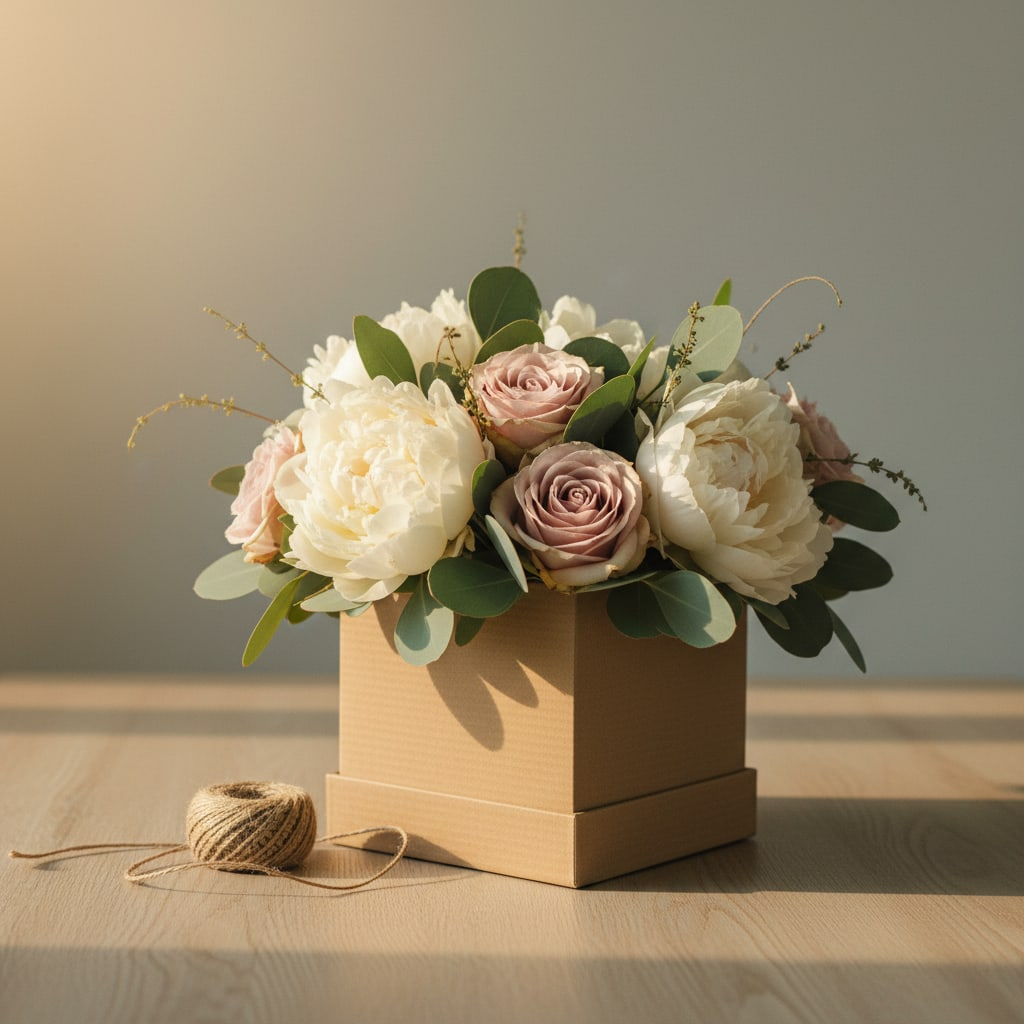
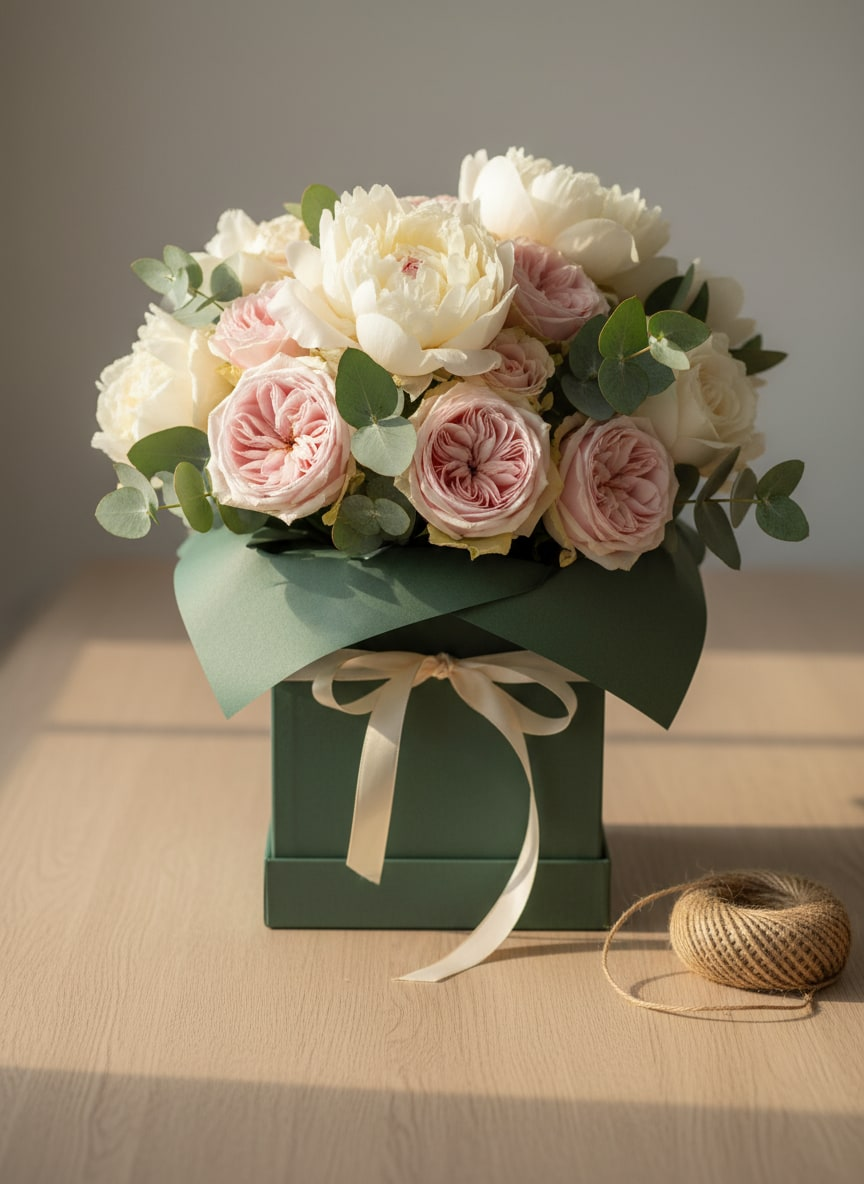
fix(hero): finalize sage-green variant in 3:4 + remove horizontal parallax bleed
- Regenerate hero-1.jpg with explicit 3:4 aspect ratio (864×1184) so the
  bouquet has breathing room on left/right and isn't cropped by object-cover
- Switch back to single imageUrl (carousel was added cost: AnimatePresence
  re-mounts + 6s interval contributing to scroll jank)
- Parallax bleed: change -inset-[8%] to inset-x-0 -inset-y-[8%] so the image
  is full-width within its column and only overflows vertically for parallax

diff --git a/app/(public)/page.tsx b/app/(public)/page.tsx
@@ -77,14 +77,8 @@ export default async function HomePage() {
         eyebrow="Florenza · Ірпінь · Буча · Гостомель · Ворзель · Київ"
         title="Квіти, що залишаються в пам'яті"
         subtitle="Свіжі квіти зі справжнього саду, складені вручну. Залишається в думках довше, ніж у вазі."
-        imageUrls={[
-          '/images/hero/hero-1a.jpg',
-          '/images/hero/hero-1b.jpg',
-          '/images/hero/hero-1c.jpg',
-          '/images/hero/hero-1d.jpg',
-          '/images/hero/hero-1e.jpg',
-        ]}
-        imageAlt="Авторський букет у декоративній коробці"
+        imageUrl="/images/hero/hero-1.jpg"
+        imageAlt="Букет півоній і трояндових квітів у sage-зеленій декоративній коробці"
         ctaPrimary={{ label: 'Перейти до каталогу', href: '/buketu' }}
         ctaSecondary={{ label: 'Дізнатися більше', href: '/about' }}
       />

diff --git a/components/florenza/EditorialHero.tsx b/components/florenza/EditorialHero.tsx
@@ -159,7 +159,7 @@ export function EditorialHero({
         onMouseLeave={() => setPaused(false)}
       >
         <motion.div
-          className="absolute -inset-[8%]"
+          className="absolute inset-x-0 -inset-y-[8%]"
           initial={{ opacity: 0, scale: 1.05 }}
           animate={{ opacity: 1, scale: 1 }}
           transition={{ duration: 1.6, ease: [0.16, 1, 0.3, 1] }}
